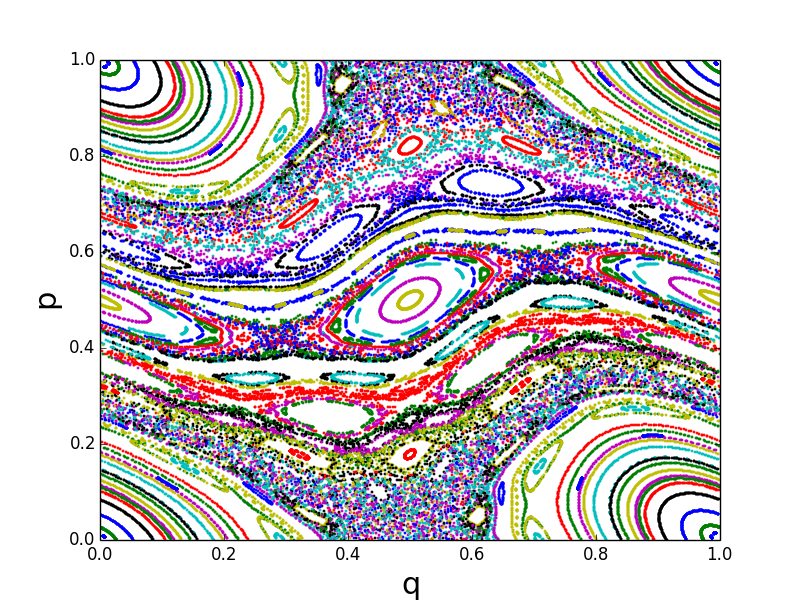
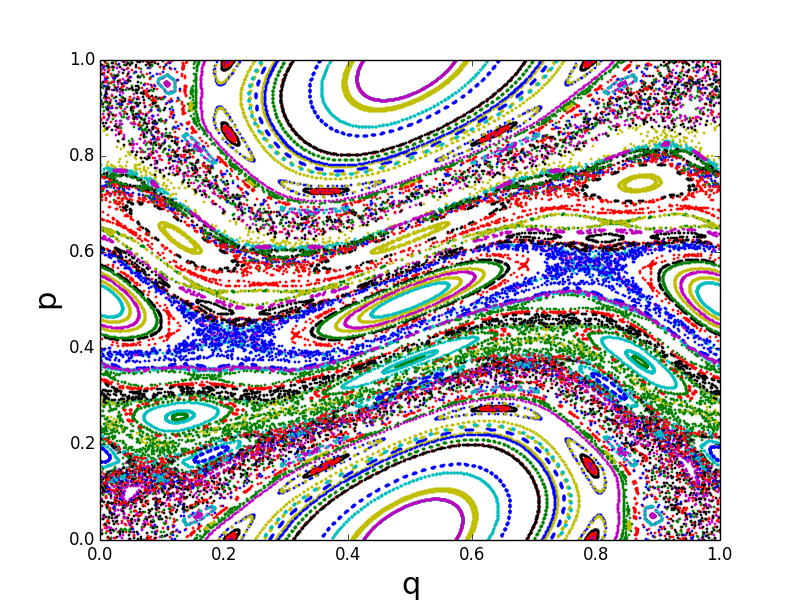
modified

diff --git a/docs/samples/cmap.py b/docs/samples/cmap.py
@@ -3,10 +3,10 @@ import numpy as np
 import matplotlib.pyplot as plt
 
 def evolv(q,p, Map):
-	pp = p - Map.func0(q)
-	qq = q - Map.func1(pp)
-	return qq, pp
-	
+    pp = p - Map.func0(q)
+    qq = q + Map.func1(pp)
+    return qq, pp
+
 k=1.0
 Map = S.StandardMap(k)
 sample=100
@@ -14,15 +14,15 @@ iter = 500
 q = np.random.random(sample)
 p = np.random.random(sample)
 for x in zip(q,p):
-	q, p = x[0],x[1]
-	traj = [np.array([]),np.array([])]
-	for i in range(iter):
-		q,p = evolv(q,p,Map)
-		q = q - np.floor(q)
-		p = p - np.floor(p)
-		for j, x in enumerate([q,p]):
-			traj[j] = np.append(traj[j], x)
-	plt.plot(traj[0],traj[1], '.',markersize=3)
+    q, p = x[0],x[1]
+    traj = [np.array([]),np.array([])]
+    for i in range(iter):
+        q,p = evolv(q,p,Map)
+        q = q - np.floor(q)
+        p = p - np.floor(p)
+        for j, x in enumerate([q,p]):
+            traj[j] = np.append(traj[j], x)
+    plt.plot(traj[0],traj[1], '.',markersize=3)
 plt.xlabel('q',fontsize=22)
 plt.ylabel('p',fontsize=22)
 plt.savefig("std.png")

diff --git a/docs/require.rst b/docs/require.rst
@@ -12,7 +12,6 @@ You'll need a following other package:
     
     1. numpy1.7.1 or later
     2. gcc (optional)
-    3. gnuplot(optioal)
     
 
 Download and Install
@@ -28,9 +27,9 @@ Download and Install
 
 .. code-block:: none
 
-    $ mv ~/Downloads/hanada-yasutaka-SimpleQmap-72448f1 ~/SimpleQmap
+    $ mv ~/Downloads/hanada-yasutaka-SimpleQmap-72448f1 ~/Py_modules
 
-別にSimpleQmap以外の名前でもかまわないです．
+別にPy_modules以外の名前でもかまわないです．
 
 次にSimpleQmapをpythonからimportするためにPYTHONPATHを適切に通します．
 適当なエディタで.bash_profileを開いて(例えば)
@@ -43,7 +42,7 @@ Download and Install
 
 .. code-block:: none
 
-    export PYTHONPATH=~/SimpleQmap/:${PYTHONPATH}
+    export PYTHONPATH=~/Py_modules/:${PYTHONPATH}
 
 emacs を終了し(controlキーを押した状態でx,cを続けて押す)設定を読み込むため，
 

diff --git a/docs/tutorial.rst b/docs/tutorial.rst
@@ -2,6 +2,13 @@
 Tutorial
 ==========
 
+本チュートリアルでは
+
+    1. numpy
+    2. matplotlib
+    3. SimpleQmap
+
+のパッケージを用います．
 sampleなので，参考程度と思ってください．
 
 Classical dynamics
